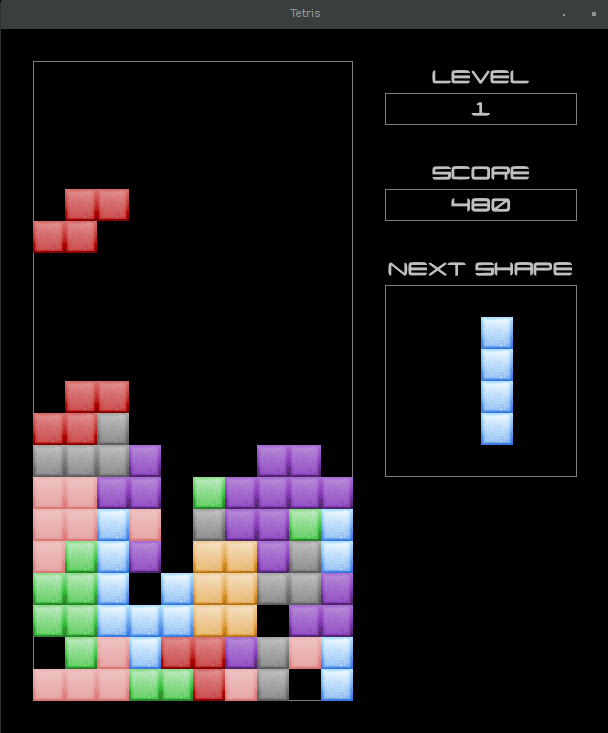
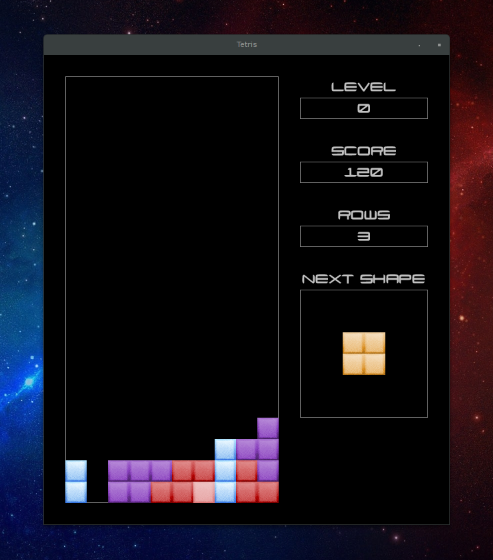
Refactoring and new screenshot added

diff --git a/src/main/java/spypunk/tetris/view/TetrisRendererImpl.java b/src/main/java/spypunk/tetris/view/TetrisRendererImpl.java
@@ -11,6 +11,8 @@ import java.util.Optional;
 import javax.inject.Inject;
 import javax.inject.Singleton;
 
+import com.google.common.collect.Lists;
+
 import spypunk.tetris.constants.TetrisConstants;
 import spypunk.tetris.factory.BlockImageFactory;
 import spypunk.tetris.factory.FontFactory;
@@ -76,16 +78,17 @@ public class TetrisRendererImpl implements TetrisRenderer {
     }
 
     private void doRender(Tetris tetris, Graphics2D graphics) {
-        renderTetris(tetris, graphics);
+        Lists.newArrayList(tetrisContainer, nextShapeContainer, levelContainer,
+            scoreContainer, rowsContainer).forEach(container -> renderContainer(graphics, container));
+
+        renderBlocks(tetris, graphics);
         renderLevel(tetris, graphics);
         renderScore(tetris, graphics);
         renderRows(tetris, graphics);
         renderNextShape(tetris, graphics);
     }
 
-    private void renderTetris(Tetris tetris, Graphics2D graphics) {
-        renderContainer(graphics, tetrisContainer);
-
+    private void renderBlocks(Tetris tetris, Graphics2D graphics) {
         tetris.getBlocks().values().stream().filter(Optional::isPresent)
                 .map(Optional::get)
                 .filter(block -> block.getLocation().y >= 2)
@@ -94,32 +97,28 @@ public class TetrisRendererImpl implements TetrisRenderer {
     }
 
     private void renderScore(Tetris tetris, Graphics2D graphics) {
-        renderContainer(graphics, scoreContainer);
         renderTextInContainer(graphics, String.valueOf(tetris.getScore()), scoreContainer);
     }
 
     private void renderRows(Tetris tetris, Graphics2D graphics) {
-        renderContainer(graphics, rowsContainer);
         renderTextInContainer(graphics, String.valueOf(tetris.getCompletedRows()), rowsContainer);
     }
 
     private void renderLevel(Tetris tetris, Graphics2D graphics) {
-        renderContainer(graphics, levelContainer);
         renderTextInContainer(graphics, String.valueOf(tetris.getLevel()), levelContainer);
     }
 
     private void renderNextShape(Tetris tetris, Graphics2D graphics) {
-        renderContainer(graphics, nextShapeContainer);
-
         Shape nextShape = tetris.getNextShape();
-
         Rectangle containerRectangle = nextShapeContainer.getRectangle();
-
         Rectangle boundingBox = nextShape.getBoundingBox();
 
-        int dx = containerRectangle.x + (containerRectangle.width - boundingBox.width * TetrisConstants.BLOCK_SIZE) / 2;
-        int dy = containerRectangle.y
-                + (containerRectangle.height - boundingBox.height * TetrisConstants.BLOCK_SIZE) / 2;
+        int x = containerRectangle.x * TetrisConstants.BLOCK_SIZE;
+        int y = containerRectangle.y * TetrisConstants.BLOCK_SIZE;
+        int width = containerRectangle.width * TetrisConstants.BLOCK_SIZE;
+        int height = containerRectangle.height * TetrisConstants.BLOCK_SIZE;
+        int dx = x + (width - boundingBox.width * TetrisConstants.BLOCK_SIZE) / 2;
+        int dy = y + (height - boundingBox.height * TetrisConstants.BLOCK_SIZE) / 2;
 
         nextShape.getBlocks().stream().forEach(
             block -> renderBlock(graphics, block, dx, dy));
@@ -131,13 +130,15 @@ public class TetrisRendererImpl implements TetrisRenderer {
 
         graphics.setColor(color);
 
-        graphics.drawLine(rectangle.x, rectangle.y, rectangle.x + rectangle.width - 1, rectangle.y);
-        graphics.drawLine(rectangle.x, rectangle.y + rectangle.height - 1, rectangle.x + rectangle.width - 1,
-            rectangle.y + rectangle.height - 1);
+        int x = rectangle.x * TetrisConstants.BLOCK_SIZE;
+        int y = rectangle.y * TetrisConstants.BLOCK_SIZE;
+        int width = rectangle.width * TetrisConstants.BLOCK_SIZE;
+        int height = rectangle.height * TetrisConstants.BLOCK_SIZE;
 
-        graphics.drawLine(rectangle.x, rectangle.y, rectangle.x, rectangle.y + rectangle.height - 1);
-        graphics.drawLine(rectangle.x + rectangle.width - 1, rectangle.y, rectangle.x + rectangle.width - 1,
-            rectangle.y + rectangle.height - 1);
+        graphics.drawLine(x, y, x + width - 1, y);
+        graphics.drawLine(x, y + height - 1, x + width - 1, y + height - 1);
+        graphics.drawLine(x, y, x, y + height - 1);
+        graphics.drawLine(x + width - 1, y, x + width - 1, y + height - 1);
 
         String title = container.getTitle();
 
@@ -150,10 +151,10 @@ public class TetrisRendererImpl implements TetrisRenderer {
 
         FontMetrics fontMetrics = graphics.getFontMetrics();
 
-        int height = fontMetrics.getHeight();
-        int width = fontMetrics.stringWidth(title);
-        int textX1 = rectangle.x + (rectangle.width - width) / 2;
-        int textY1 = rectangle.y - (TetrisConstants.BLOCK_SIZE - height);
+        int textHeight = fontMetrics.getHeight();
+        int textWidth = fontMetrics.stringWidth(title);
+        int textX1 = x + (width - textWidth) / 2;
+        int textY1 = y - (TetrisConstants.BLOCK_SIZE - textHeight);
 
         graphics.drawString(title, textX1, textY1);
     }
@@ -178,10 +179,13 @@ public class TetrisRendererImpl implements TetrisRenderer {
 
         FontMetrics fontMetrics = graphics.getFontMetrics();
 
-        int height = fontMetrics.getHeight();
-        int width = fontMetrics.stringWidth(text);
-        int x1 = rectangle.x + (rectangle.width - width) / 2;
-        int y1 = rectangle.y + TetrisConstants.BLOCK_SIZE - (TetrisConstants.BLOCK_SIZE - height);
+        int x = rectangle.x * TetrisConstants.BLOCK_SIZE;
+        int y = rectangle.y * TetrisConstants.BLOCK_SIZE;
+        int width = rectangle.width * TetrisConstants.BLOCK_SIZE;
+        int textHeight = fontMetrics.getHeight();
+        int textWidth = fontMetrics.stringWidth(text);
+        int x1 = x + (width - textWidth) / 2;
+        int y1 = y + TetrisConstants.BLOCK_SIZE - (TetrisConstants.BLOCK_SIZE - textHeight);
 
         graphics.setColor(scoreContainer.getFontColor());
         graphics.setFont(scoreContainer.getFont());
@@ -189,39 +193,33 @@ public class TetrisRendererImpl implements TetrisRenderer {
     }
 
     private Container createTetrisContainer() {
-        Rectangle rectangle = new Rectangle(TetrisConstants.BLOCK_SIZE, TetrisConstants.BLOCK_SIZE,
-                TetrisConstants.BLOCK_SIZE * TetrisConstants.WIDTH,
-                TetrisConstants.BLOCK_SIZE * (TetrisConstants.HEIGHT - 2));
+        Rectangle rectangle = new Rectangle(1, 1, TetrisConstants.WIDTH, TetrisConstants.HEIGHT - 2);
 
         return defaultContainerBuilder(rectangle).build();
     }
 
-    private Container createNextShapeContainer() {
-        Rectangle rectangle = new Rectangle(TetrisConstants.BLOCK_SIZE * (TetrisConstants.WIDTH + 2),
-                11 * TetrisConstants.BLOCK_SIZE, TetrisConstants.BLOCK_SIZE * 6, TetrisConstants.BLOCK_SIZE * 6);
-
-        return defaultContainerBuilder(rectangle).setTitle(NEXT_SHAPE).build();
-    }
-
     private Container createLevelContainer() {
-        Rectangle rectangle = new Rectangle(TetrisConstants.BLOCK_SIZE * (TetrisConstants.WIDTH + 2),
-                2 * TetrisConstants.BLOCK_SIZE, TetrisConstants.BLOCK_SIZE * 6, TetrisConstants.BLOCK_SIZE * 1);
+        Rectangle rectangle = new Rectangle(TetrisConstants.WIDTH + 2, 2, 6, 1);
 
         return defaultContainerBuilder(rectangle).setTitle(LEVEL).build();
     }
 
     private Container createScoreContainer() {
-        Rectangle rectangle = new Rectangle(TetrisConstants.BLOCK_SIZE * (TetrisConstants.WIDTH + 2),
-                5 * TetrisConstants.BLOCK_SIZE, TetrisConstants.BLOCK_SIZE * 6, TetrisConstants.BLOCK_SIZE * 1);
+        Rectangle rectangle = new Rectangle(TetrisConstants.WIDTH + 2, 5, 6, 1);
 
         return defaultContainerBuilder(rectangle).setTitle(SCORE).build();
     }
 
     private Container createRowsContainer() {
-        Rectangle rectangle = new Rectangle(TetrisConstants.BLOCK_SIZE * (TetrisConstants.WIDTH + 2),
-                8 * TetrisConstants.BLOCK_SIZE, TetrisConstants.BLOCK_SIZE * 6, TetrisConstants.BLOCK_SIZE * 1);
+        Rectangle rectangle = new Rectangle(TetrisConstants.WIDTH + 2, 8, 6, 1);
 
         return defaultContainerBuilder(rectangle).setTitle(ROWS).build();
+    }
+
+    private Container createNextShapeContainer() {
+        Rectangle rectangle = new Rectangle(TetrisConstants.WIDTH + 2, 11, 6, 6);
+
+        return defaultContainerBuilder(rectangle).setTitle(NEXT_SHAPE).build();
     }
 
     private Builder defaultContainerBuilder(Rectangle rectangle) {

diff --git a/src/main/java/spypunk/tetris/repository/ShapeTypeRepositoryImpl.java b/src/main/java/spypunk/tetris/repository/ShapeTypeRepositoryImpl.java
@@ -48,9 +48,9 @@ public class ShapeTypeRepositoryImpl implements ShapeTypeRepository {
     }
 
     private static ShapeType createOShapeType() {
-        return ShapeType.Builder.instance().setId(Id.O).setBoundingBox(new Rectangle(0, 0, 4, 3))
+        return ShapeType.Builder.instance().setId(Id.O).setBoundingBox(new Rectangle(0, 0, 2, 2))
                 .setRotations(
-                    Arrays.asList(Sets.newHashSet(LOCATION_1_0, LOCATION_2_0, LOCATION_1_1, LOCATION_2_1)))
+                    Arrays.asList(Sets.newHashSet(LOCATION_0_0, LOCATION_1_0, LOCATION_0_1, LOCATION_1_1)))
                 .build();
     }
 
